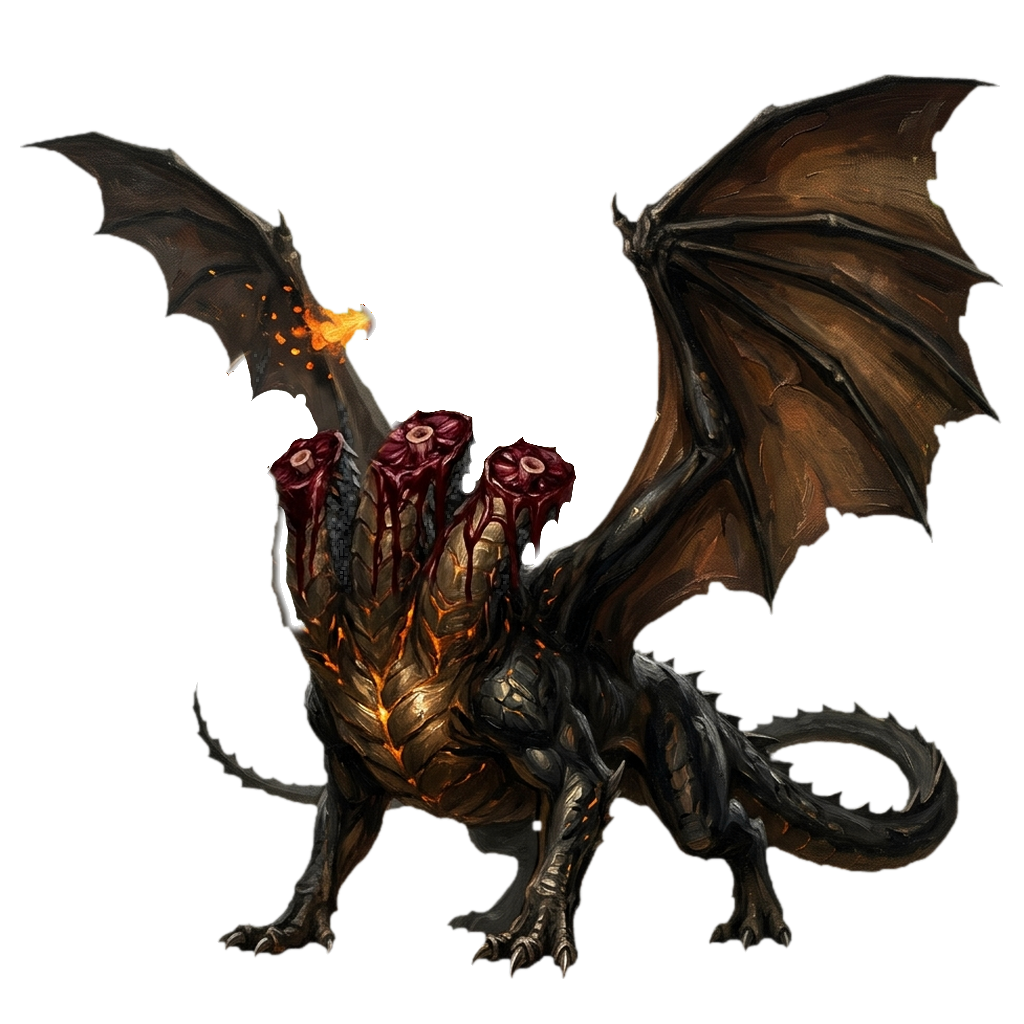
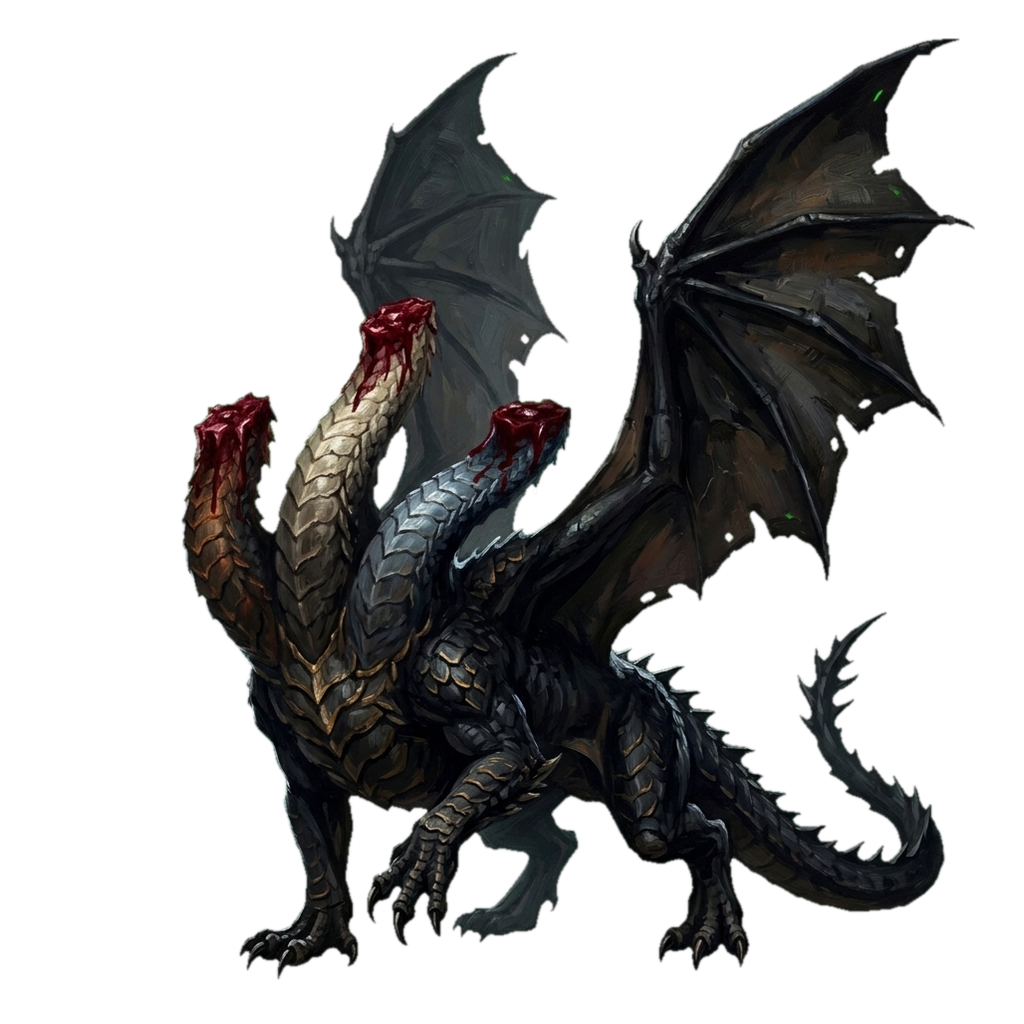
Gorynych is one dragon: the body with three neck stumps is drawn once and each head unit is its own head and neck on the same sheet, standing over its stump; a head struck off always flies and leaves the stump, one that grows back is drawn again, and with no head left the body lies down. Painted ane

diff --git a/tools/gorynych_in.py b/tools/gorynych_in.py
@@ -1,0 +1,112 @@
+"""Takes Gorynych into the game as one body with three heads on their own necks.
+
+    python tools/gorynych_in.py [<dir>]
+
+Reads from `<dir>` (default `_inbox/flow_up`) the Flow pictures `gor3.png` (the whole dragon),
+`gor3_body.png` (the same dragon, all three necks cut halfway up), `gor3_mask.png` (the same
+dragon with the fire head magenta, the venom head cyan, the thunder head yellow), `gor3_dead.png`
+and `gor3_deadhl.png` (lying dead, with and without heads). Writes into assets/enemies, all on
+the same 1024 sheet so they lie exactly over each other:
+
+- `gorynych-gemini.png` the whole dragon, `gorynych_body-gemini.png` the body with three stumps;
+- `gorynych_<fire|poison|thunder>_head-gemini.png`: each head with the part of its neck the body
+  lacks (whatever of the whole dragon the body does not hold goes to the nearest mask colour);
+- `gorynych_dead-gemini.png`, `gorynych_dead_headless-gemini.png` (1536x1024).
+
+It prints each head's neck joint (where it meets its stump, as fractions of the sheet) for
+`crates/game/src/battle/rig.rs`, and writes target/gorynych.png to look at.
+"""
+import os
+import sys
+
+import numpy as np
+from PIL import Image
+from scipy import ndimage
+
+sys.path.insert(0, os.path.dirname(os.path.abspath(__file__)))
+from key_flood import key_flood  # noqa: E402
+from rig_in import FOOT, LONG, despeckle, figure  # noqa: E402
+
+ROOT = os.path.join(os.path.dirname(os.path.abspath(__file__)), "..")
+EN = os.path.join(ROOT, "assets", "enemies")
+SIDE = 1024
+HEADS = (("fire", (255, 0, 255)), ("poison", (0, 255, 255)), ("thunder", (255, 255, 0)))
+
+
+def main():
+    src = sys.argv[1] if len(sys.argv) > 1 else os.path.join(ROOT, "_inbox", "flow_up")
+    pic = lambda n: os.path.join(src, n)
+    rest = key_flood(Image.open(pic("gor3.png")), tol=90)
+    body = key_flood(Image.open(pic("gor3_body.png")).resize(rest.size, Image.LANCZOS), tol=90)
+    mask = np.array(Image.open(pic("gor3_mask.png")).convert("RGB").resize(rest.size, Image.NEAREST)).astype(int)
+    # one placing for all: the whole dragon's box, fitted to the sheet, feet near the bottom
+    box = rest.getchannel("A").point(lambda v: 255 if v > 24 else 0).getbbox()
+    k = min(0.94 * SIDE / (box[2] - box[0]), 0.92 * SIDE / (box[3] - box[1]))
+    at = ((SIDE - round((box[2] - box[0]) * k)) // 2, round(SIDE * 0.957) - round((box[3] - box[1]) * k))
+
+    def place(im):
+        im = im.crop(box)
+        im = im.resize((max(1, round(im.width * k)), max(1, round(im.height * k))), Image.LANCZOS)
+        sheet = Image.new("RGBA", (SIDE, SIDE))
+        sheet.alpha_composite(im, at)
+        return sheet
+
+    R, B = np.array(place(rest)), np.array(place(body))
+    M = np.array(place(Image.fromarray(np.dstack([mask, np.full(mask.shape[:2], 255)]).astype(np.uint8), "RGBA")))[..., :3].astype(int)
+    whole, held = R[..., 3] > 24, B[..., 3] > 24
+    # each head takes the whole dragon's paint from its mask down over its bloody stump on the
+    # body, so a living head hides its stump and a cut one leaves it
+    red = (B[..., 0].astype(int) > 80) & (B[..., 0].astype(int) > 1.6 * B[..., 1]) & held
+    marks, dist = [], []
+    for _, col in HEADS:
+        near = (np.abs(M - np.array(col)).sum(axis=2) < 150) & whole
+        marks.append(near)
+        dist.append(ndimage.distance_transform_edt(~near) if near.any() else np.full(whole.shape, 1e9))
+    owner = np.argmin(np.stack(dist), axis=0)
+    out = {"gorynych": Image.fromarray(R), "gorynych_body": Image.fromarray(B)}
+    joints = []
+    for i, (name, _) in enumerate(HEADS):
+        part = np.zeros_like(R)
+        stump = red & (owner == i) & (dist[i] < 260)
+        reach = dist[i][stump].max() + 8 if stump.any() else 60
+        sel = whole & (owner == i) & (dist[i] <= reach)
+        part[sel] = R[sel]
+        out[f"gorynych_{name}_head"] = Image.fromarray(part)
+        # the neck joint: where this piece touches the body
+        seam = sel & ndimage.binary_dilation(held, iterations=3)
+        ys, xs = np.nonzero(seam if seam.any() else sel)
+        joints.append((name, xs.mean() / SIDE, ys.mean() / SIDE))
+    for name, im in out.items():
+        path = os.path.join(EN, f"{name}-gemini.png")
+        im.save(path)
+        if name != "gorynych":
+            despeckle(path)
+    w = SIDE * 3 // 2
+    d = figure(pic("gor3_dead.png"))
+    kd = LONG * SIDE / max(d.width, d.height * 1.4)
+    corpses = []
+    for name, fig in (("gorynych_dead", d), ("gorynych_dead_headless", figure(pic("gor3_deadhl.png")))):
+        fig = fig.resize((max(1, round(fig.width * kd)), max(1, round(fig.height * kd))), Image.LANCZOS)
+        sheet = Image.new("RGBA", (w, SIDE))
+        sheet.alpha_composite(fig, ((w - fig.width) // 2, int(SIDE * FOOT) - fig.height))
+        sheet.save(os.path.join(EN, f"{name}-gemini.png"))
+        despeckle(os.path.join(EN, f"{name}-gemini.png"))
+        corpses.append(sheet)
+    # to look at: body alone, each head alone in its place, the heads over the body, the corpses
+    tiles = [out["gorynych_body"]] + [out[f"gorynych_{n}_head"] for n, _ in HEADS]
+    over = out["gorynych_body"].copy()
+    for n, _ in HEADS:
+        over.alpha_composite(out[f"gorynych_{n}_head"])
+    tiles.append(over)
+    sheet = Image.new("RGBA", (5 * 320, 320 + 214), (90, 90, 90, 255))
+    for i, t in enumerate(tiles):
+        sheet.alpha_composite(t.resize((320, 320)), (i * 320, 0))
+    for i, c in enumerate(corpses):
+        sheet.alpha_composite(c.resize((320, 214)), (i * 320, 320))
+    sheet.convert("RGB").save(os.path.join(ROOT, "target", "gorynych.png"))
+    for name, x, y in joints:
+        print(f'    ("enemies/gorynych_{name}_head", joint {x:.3f}, {y:.3f})')
+
+
+if __name__ == "__main__":
+    main()

diff --git a/crates/game/src/battle/gorynych.rs b/crates/game/src/battle/gorynych.rs
@@ -1,0 +1,115 @@
+//! Gorynych: three foes in the rules (`gorynych_fire`, `gorynych_poison`, `gorynych_thunder`),
+//! one dragon on the screen. The body with three bloody neck stumps is drawn once, behind; each
+//! head is a unit of its own drawn as its head and neck alone, painted on the same sheet so it
+//! sits exactly on its stump. A head struck off flies and leaves its stump; one that grows back
+//! is drawn again; when no head is left the body lies down.
+
+use bevy::prelude::*;
+use nav_core::Combat;
+
+use super::{stands, stature, UnitLayer};
+use crate::art::Art;
+
+/// Where on its picture each head is (as a fraction of the sheet's width), in the order the
+/// heads stand from left to right.
+const HEADS: [(&str, f32); 3] = [("gorynych_fire", 0.236), ("gorynych_poison", 0.385), ("gorynych_thunder", 0.476)];
+
+fn head(def: &str) -> Option<f32> {
+    HEADS.iter().find(|(d, _)| *d == def).map(|(_, x)| *x)
+}
+
+/// How tall the dragon is drawn: the sheet is square.
+fn height() -> f32 {
+    stature::height_of(HEADS[0].0).unwrap_or(380.0)
+}
+
+/// The dragon's feet: the place of the first of its heads in the fight.
+fn feet(shown: &Combat) -> Option<Vec2> {
+    let i = shown.enemies.iter().position(|e| head(&e.def).is_some())?;
+    let uid = shown.enemies[i].uid;
+    Some(stands::foe(uid, || shown.enemies.iter().map(|e| (e.uid, e.alive)).collect()).unwrap_or_else(|| super::enemy_foot(i, shown.enemies.len())))
+}
+
+/// A head's own place on the stage: the dragon's feet moved under that head, so its intent and
+/// its health stand over it. `shift` is how far its picture must move back to sit on the body.
+pub(super) fn place(shown: &Combat, def: &str) -> Option<Vec2> {
+    let x = head(def)?;
+    Some(feet(shown)? + Vec2::new(shift_of(x), 0.0))
+}
+
+fn shift_of(x: f32) -> f32 {
+    (x - 0.5) * height()
+}
+
+/// How far a head's picture is drawn left of its own place, to sit on the body.
+pub(super) fn picture_shift(def: &str) -> f32 {
+    head(def).map_or(0.0, |x| -shift_of(x))
+}
+
+/// Which head this is, from the left (0..3): its bar and name stand lower the further right, so
+/// three bars side by side stay readable.
+pub(super) fn rank(def: &str) -> Option<usize> {
+    HEADS.iter().position(|(d, _)| *d == def)
+}
+
+/// How far a head's intent stands aside from its own place: the heads are close, their intents
+/// would cover one another.
+pub(super) fn intent_shift(def: &str) -> f32 {
+    rank(def).map_or(0.0, |r| (r as f32 - 1.0) * 70.0)
+}
+
+/// A head struck off always flies.
+pub(super) fn is_head(stem: &str) -> bool {
+    stem.strip_prefix("enemies/").and_then(head).is_some()
+}
+
+#[derive(Component)]
+pub(super) struct Body {
+    lying: bool,
+}
+
+/// Draws the body once while any head is in the fight, and lays it down when none is left.
+pub(super) fn draw_body(
+    mut commands: Commands,
+    session: Res<crate::session::Session>,
+    art: Res<Art>,
+    assets: Res<AssetServer>,
+    layer: Option<Single<Entity, With<UnitLayer>>>,
+    mut bodies: Query<(Entity, &mut Body, &mut ImageNode, &mut Node)>,
+) {
+    let shown = &session.shown;
+    let Some(foot) = feet(shown) else {
+        for (e, ..) in &bodies {
+            commands.entity(e).despawn();
+        }
+        return;
+    };
+    let Some(layer) = layer else { return };
+    let any_alive = shown.enemies.iter().any(|e| e.alive && head(&e.def).is_some());
+    let h = height();
+    let standing = Node { position_type: PositionType::Absolute, left: px(foot.x - h / 2.0), top: px(foot.y - h), width: px(h), height: px(h), ..default() };
+    let lying = Node { position_type: PositionType::Absolute, left: px(foot.x - h * 0.75), top: px(foot.y - h), width: px(h * 1.5), height: px(h), ..default() };
+    match bodies.iter_mut().next() {
+        None => {
+            let (pic, node) = if any_alive { ("enemies/gorynych_body", standing) } else { ("enemies/gorynych_dead_headless", lying) };
+            let Some(image) = art.image(&assets, pic) else { return };
+            // behind the heads, which stand at the same feet
+            commands.spawn((Body { lying: !any_alive }, ImageNode::new(image), node, ZIndex(foot.y as i32 - 1), Pickable::IGNORE, ChildOf(*layer)));
+        }
+        Some((_, mut body, mut image, mut node)) => {
+            if !any_alive && !body.lying {
+                if let Some(dead) = art.image(&assets, "enemies/gorynych_dead_headless") {
+                    image.image = dead;
+                    *node = lying;
+                    body.lying = true;
+                }
+            } else if any_alive && body.lying {
+                if let Some(up) = art.image(&assets, "enemies/gorynych_body") {
+                    image.image = up;
+                    *node = standing;
+                    body.lying = false;
+                }
+            }
+        }
+    }
+}

diff --git a/crates/game/src/battle.rs b/crates/game/src/battle.rs
@@ -38,6 +38,7 @@ mod aim;
 mod fit_text;
 mod fx;
 mod gore;
+mod gorynych;
 mod held;
 mod impact;
 pub(crate) mod piles;
@@ -64,7 +65,7 @@ pub fn plugin(app: &mut App) {
             Update,
             (
                 playback,
-                (sync_units, gore::lay_out_the_headless, sync_hand, live_costs, sync_potions, flask_menu, count_relics, cue_effects).chain(),
+                (sync_units, gorynych::draw_body, gore::lay_out_the_headless, sync_hand, live_costs, sync_potions, flask_menu, count_relics, cue_effects).chain(),
                 no_eyes,
                 (pick_hover, layout_hand, layout_units, swap_form_art, animate_sprites, update_labels, update_intent_icons, update_bars, update_tooltip),
                 (floaters, fly_ghosts, dying, style_buttons, impact::shake_screen, turn_timer, send_pings, show_pings, light_bonuses),
@@ -381,6 +382,10 @@ fn unit_place(shown: &Combat, unit: UnitRef) -> Option<(Vec2, Vec2)> {
         UnitRef::Hero(i) => shown.hero(i).map(|_| (hero_spot(i, shown.heroes.len()), HERO_SIZE)),
         UnitRef::Enemy(uid) => {
             let i = shown.enemies.iter().position(|e| e.uid == uid)?;
+            // Gorynych's heads stand on one body
+            if let Some(foot) = gorynych::place(shown, &shown.enemies[i].def) {
+                return Some((foot, ENEMY_SIZE));
+            }
             Some((stands::foe(uid, || shown.enemies.iter().map(|e| (e.uid, e.alive)).collect()).unwrap_or_else(|| enemy_foot(i, shown.enemies.len())), ENEMY_SIZE))
         }
     }
@@ -907,6 +912,14 @@ fn sync_units(
             UnitRef::Hero(i) => shown.hero(i).map_or(draw, |h| draw * hp_stature(&db.0, &h.def, h.max_hp)),
             UnitRef::Enemy(_) => draw,
         };
+        // a head of Gorynych stands under itself but is drawn back onto the shared body, its bar
+        // and name lower than its left neighbour's so the three stay readable
+        let def = match unit {
+            UnitRef::Enemy(uid) => shown.enemy(uid).map(|e| e.def.to_string()).unwrap_or_default(),
+            UnitRef::Hero(_) => String::new(),
+        };
+        let shift = gorynych::picture_shift(&def);
+        let drop = gorynych::rank(&def).map_or(0.0, |r| r as f32 * 48.0);
         commands
             .spawn((
                 UnitWidget { unit, pos: origin },
@@ -928,7 +941,7 @@ fn sync_units(
                 u.spawn((
                     // over a picture that spills above its slot, the intent rises with it, so it
                     // stays over the head and not on the face
-                    Node { height: px(HEAD_ROOM), align_items: AlignItems::Center, top: px(-(draw.y - size.y)), ..default() },
+                    Node { height: px(HEAD_ROOM), align_items: AlignItems::Center, top: px(-(draw.y - size.y)), left: px(gorynych::intent_shift(&def)), ..default() },
                     // text is never hidden by a sprite, this unit's or a neighbour's
                     GlobalZIndex(20),
                     Pickable::IGNORE,
@@ -984,7 +997,7 @@ fn sync_units(
                         Node {
                             width: px(draw.x),
                             height: px(draw.y),
-                            margin: UiRect { left: px((size.x - draw.x) / 2.0), right: px((size.x - draw.x) / 2.0), top: px(size.y - draw.y), bottom: px(0) },
+                            margin: UiRect { left: px((size.x - draw.x) / 2.0 + shift), right: px((size.x - draw.x) / 2.0 - shift), top: px(size.y - draw.y), bottom: px(0) },
                             flex_shrink: 0.0,
                             ..default()
                         }
@@ -1002,7 +1015,7 @@ fn sync_units(
                     Node {
                         width: px(180),
                         height: px(22),
-                        margin: UiRect::top(px(8)),
+                        margin: UiRect::top(px(8.0 + drop)),
                         border: UiRect::all(px(2)),
                         border_radius: BorderRadius::all(px(7)),
                         align_items: AlignItems::Center,
@@ -1517,6 +1530,8 @@ fn dying(
                 // drawn from what every player's game knows alike (who died, by how hard a
                 // blow), so the same parts fly the same way on every screen
                 let (weight, lost) = blows.0.get(&unit).copied().unwrap_or((0.0, 0));
+                // a head of Gorynych always comes off
+                let weight = if gorynych::is_head(&stem) { 9.0 } else { weight };
                 let seed = match unit {
                     UnitRef::Enemy(u) => u as u32,
                     UnitRef::Hero(i) => 1000 + i as u32,

diff --git a/crates/game/src/battle/rig.rs b/crates/game/src/battle/rig.rs
@@ -142,7 +142,11 @@ const FIGURES: &[(&str, &[Cut])] = &[
     ("enemies/ogneya", &[(Part::Head, Vec2::new(0.626, 0.315), 1.0), (Part::Arm, Vec2::new(0.407, 0.427), 1.0)]),
     ("enemies/sea_guard", &[(Part::Head, Vec2::new(0.562, 0.199), 1.0), (Part::Arm, Vec2::new(0.212, 0.040), 1.0)]),
     ("enemies/gagana", &[(Part::Head, Vec2::new(0.292, 0.259), 1.0), (Part::Shield, Vec2::new(0.789, 0.573), 0.8), (Part::Arm, Vec2::new(0.571, 0.182), 1.0)]),
-    ("enemies/gorynych", &[(Part::Head, Vec2::new(0.361, 0.511), 1.0)]),
+    // Gorynych's heads are units of their own: each is drawn as its head and neck alone over an
+    // empty body, on the one sheet the shared body (`battle::gorynych`) is drawn on
+    ("enemies/gorynych_fire", &[(Part::Head, Vec2::new(0.236, 0.501), 1.0)]),
+    ("enemies/gorynych_poison", &[(Part::Head, Vec2::new(0.385, 0.301), 1.0)]),
+    ("enemies/gorynych_thunder", &[(Part::Head, Vec2::new(0.476, 0.406), 1.0)]),
     ("enemies/solovey", &[(Part::Head, Vec2::new(0.379, 0.303), 1.0), (Part::Shield, Vec2::new(0.378, 0.258), 0.8), (Part::Arm, Vec2::new(0.279, 0.269), 1.0)]),
     ("enemies/korochun", &[(Part::Head, Vec2::new(0.496, 0.219), 1.0), (Part::Shield, Vec2::new(0.661, 0.436), 0.8), (Part::Arm, Vec2::new(0.172, 0.202), 1.0)]),
     ("enemies/vodyanoy_tsar", &[(Part::Head, Vec2::new(0.473, 0.405), 1.0), (Part::Shield, Vec2::new(0.657, 0.472), 0.8), (Part::Arm, Vec2::new(0.148, 0.037), 1.0)]),

diff --git a/crates/game/src/battle/stature.rs b/crates/game/src/battle/stature.rs
@@ -73,9 +73,9 @@ const STATURE: &[(&str, f32, f32)] = &[
     ("sea_guard", 1.05, 0.94),
     ("ogneya", 1.1, 0.94),
     ("gagana", 1.4, 0.94),
-    ("gorynych_fire", 1.1, 0.94),
-    ("gorynych_poison", 1.1, 0.94),
-    ("gorynych_thunder", 1.1, 0.94),
+    ("gorynych_fire", 1.6, 0.94),
+    ("gorynych_poison", 1.6, 0.94),
+    ("gorynych_thunder", 1.6, 0.94),
     ("biryuk", 0.8, 0.935),
     ("podmenysh", 0.6, 0.935),
     ("polevik", 0.75, 0.934),
